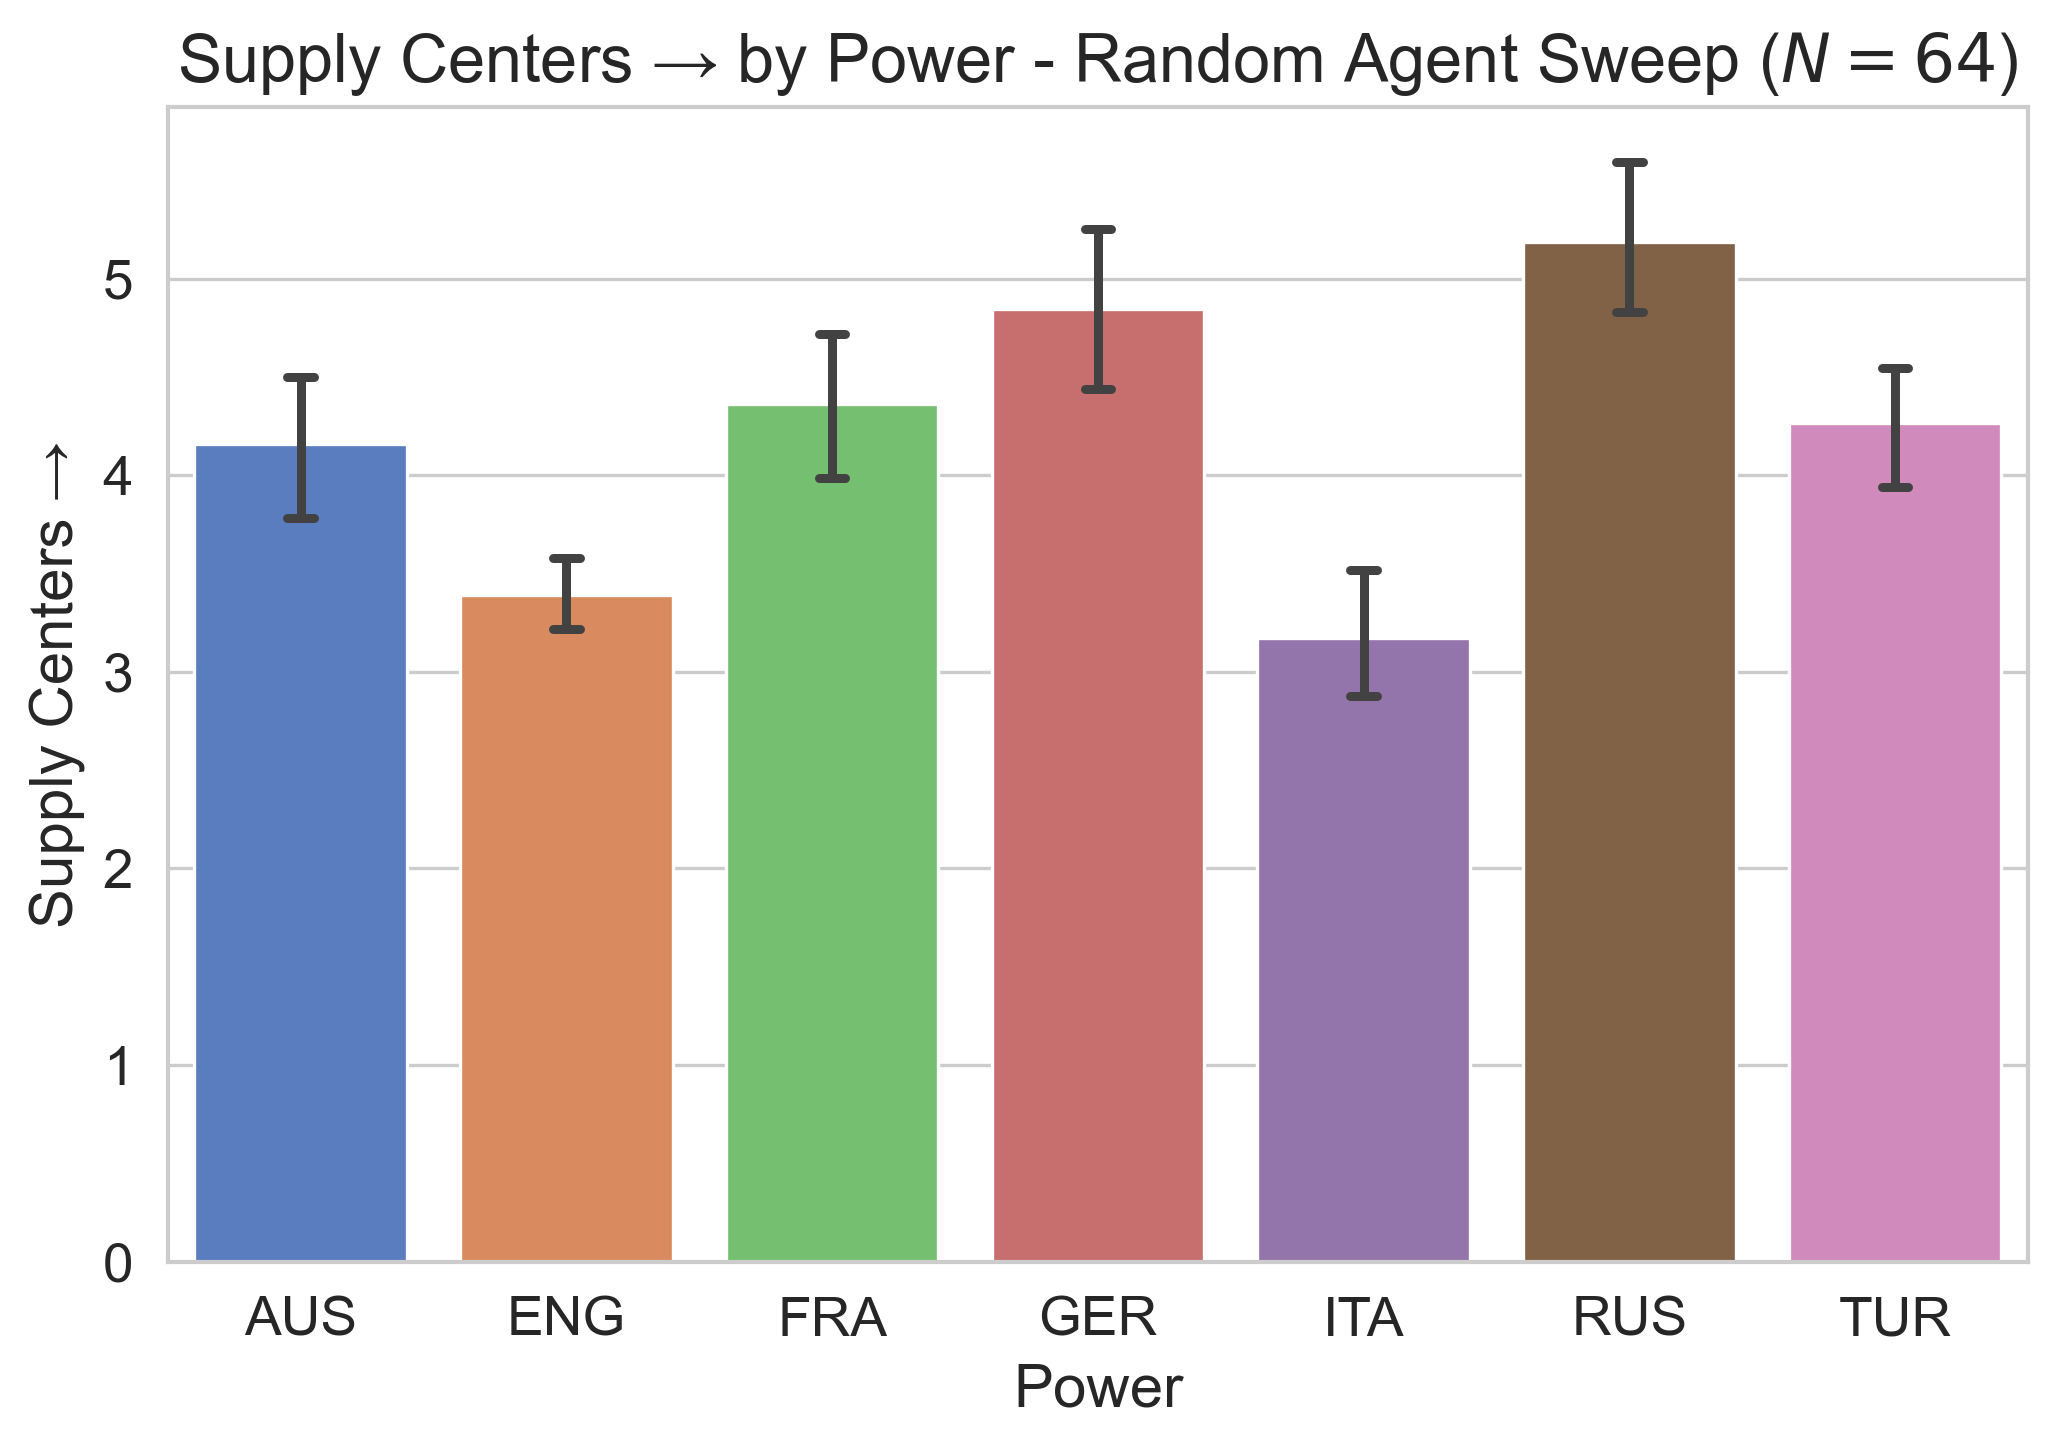
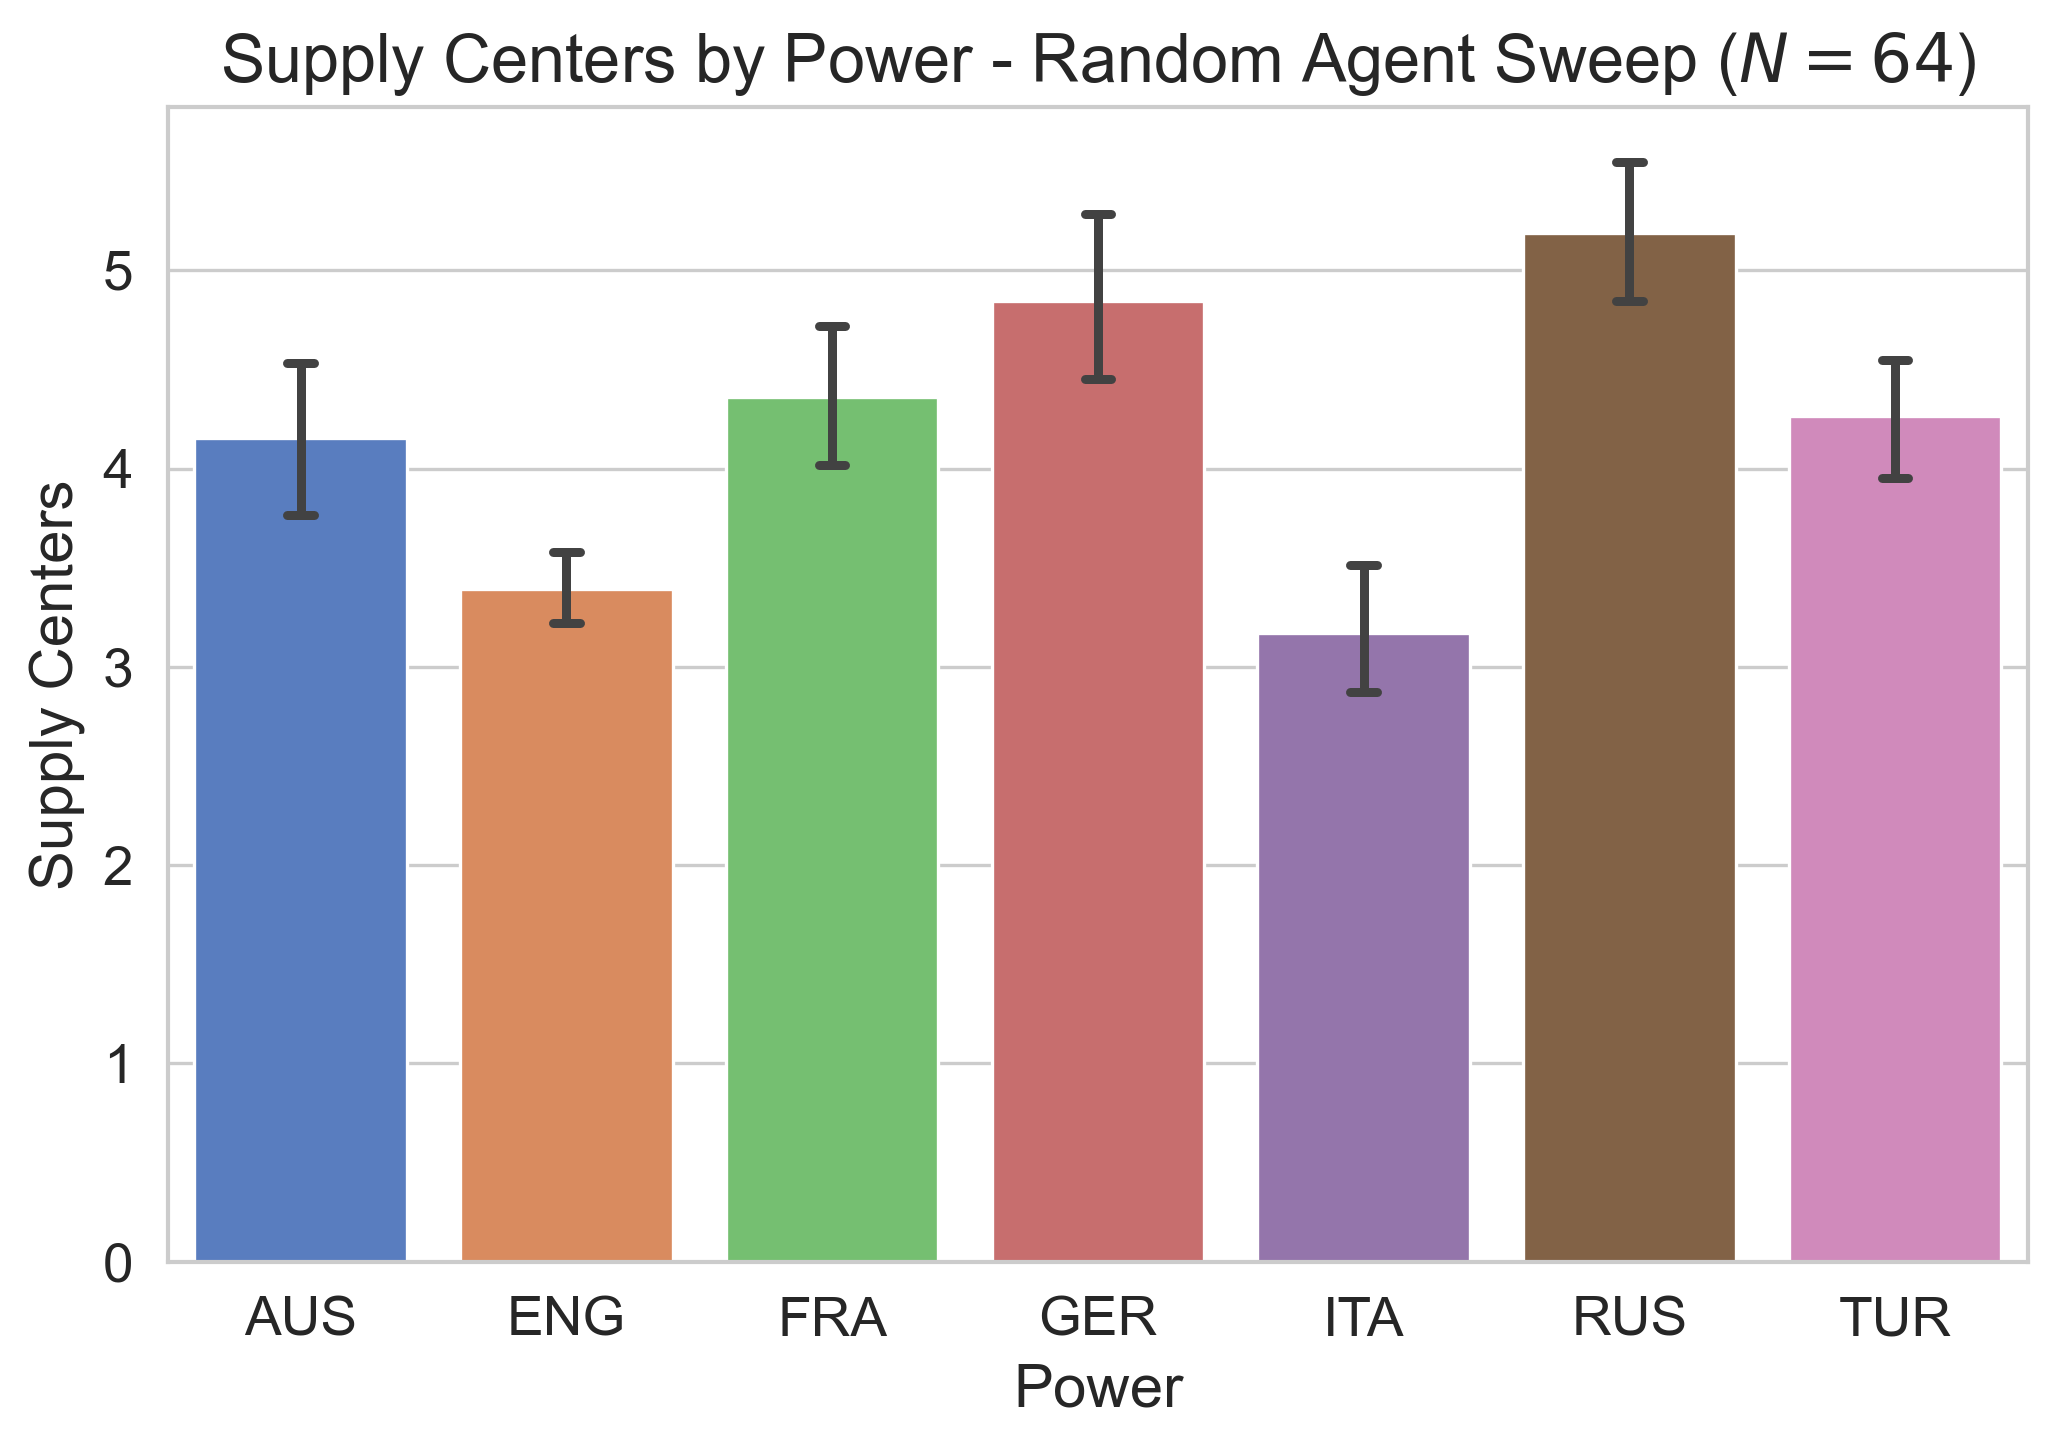
Improve plots, print stats

diff --git a/experiments/charts/random_agents.py b/experiments/charts/random_agents.py
@@ -25,8 +25,8 @@ def main() -> None:
 
     # Plot a bunch of different bar graphs for different metrics
     for metric_name, y_label in [
-        ("welfare", "Welfare Points →"),
-        ("centers", "Supply Centers →"),
+        ("welfare", "Welfare Points"),
+        ("centers", "Supply Centers"),
         ("units", "Unit Counts"),
     ]:
         # Plot the welfare scores for each power
@@ -54,13 +54,20 @@ def main() -> None:
         )
 
         # Create the plot
-        sns.barplot(
+        plot = sns.barplot(
             data=welfare_df,
             x="Power",
             y=y_label,
             capsize=0.1,
             errorbar="ci",
         )
+
+        # Print the mean and error of each bar
+        power_names = welfare_df["Power"].unique()
+        for bar_label, bar, line in zip(power_names, plot.patches, plot.lines[::3]):
+            error = (line.get_ydata()[1] - line.get_ydata()[0]) / 2
+            print(f"{y_label} ({bar_label}): {bar.get_height():.2f} ± {error:.2f}")
+        print()
 
         # Set labels and title
         plt.xlabel("Power")
@@ -90,24 +97,33 @@ def main() -> None:
     welfare_df = welfare_df.melt()
 
     # update the column names
-    x_label = "Aggregation Type"
+    bar_label = "Aggregation Type"
     y_label = "Welfare Points →"
-    welfare_df.columns = [x_label, y_label]
+    welfare_df.columns = [bar_label, y_label]
 
     # Rename the aggregation types
-    welfare_df[x_label] = welfare_df[x_label].str.replace("welfare/", "").str.title()
+    welfare_df[bar_label] = (
+        welfare_df[bar_label].str.replace("welfare/", "").str.title()
+    )
 
     # Create the plot
-    sns.barplot(
+    plot = sns.barplot(
         data=welfare_df,
-        x=x_label,
+        x=bar_label,
         y=y_label,
         capsize=0.1,
         errorbar="ci",
     )
 
+    # Print the mean and error of each bar
+    bar_labels = welfare_df[bar_label].unique()
+    for bar_label, bar, line in zip(bar_labels, plot.patches, plot.lines[::3]):
+        error = (line.get_ydata()[1] - line.get_ydata()[0]) / 2
+        print(f"{y_label} ({bar_label}): {bar.get_height():.2f} ± {error:.2f}")
+    print()
+
     # Set labels and title
-    plt.xlabel(x_label)
+    plt.xlabel(bar_label)
     plt.ylabel(y_label)
     title = "Aggregated Welfare Points - Random Agent Sweep ($N=64$)"
     plt.title(title)
